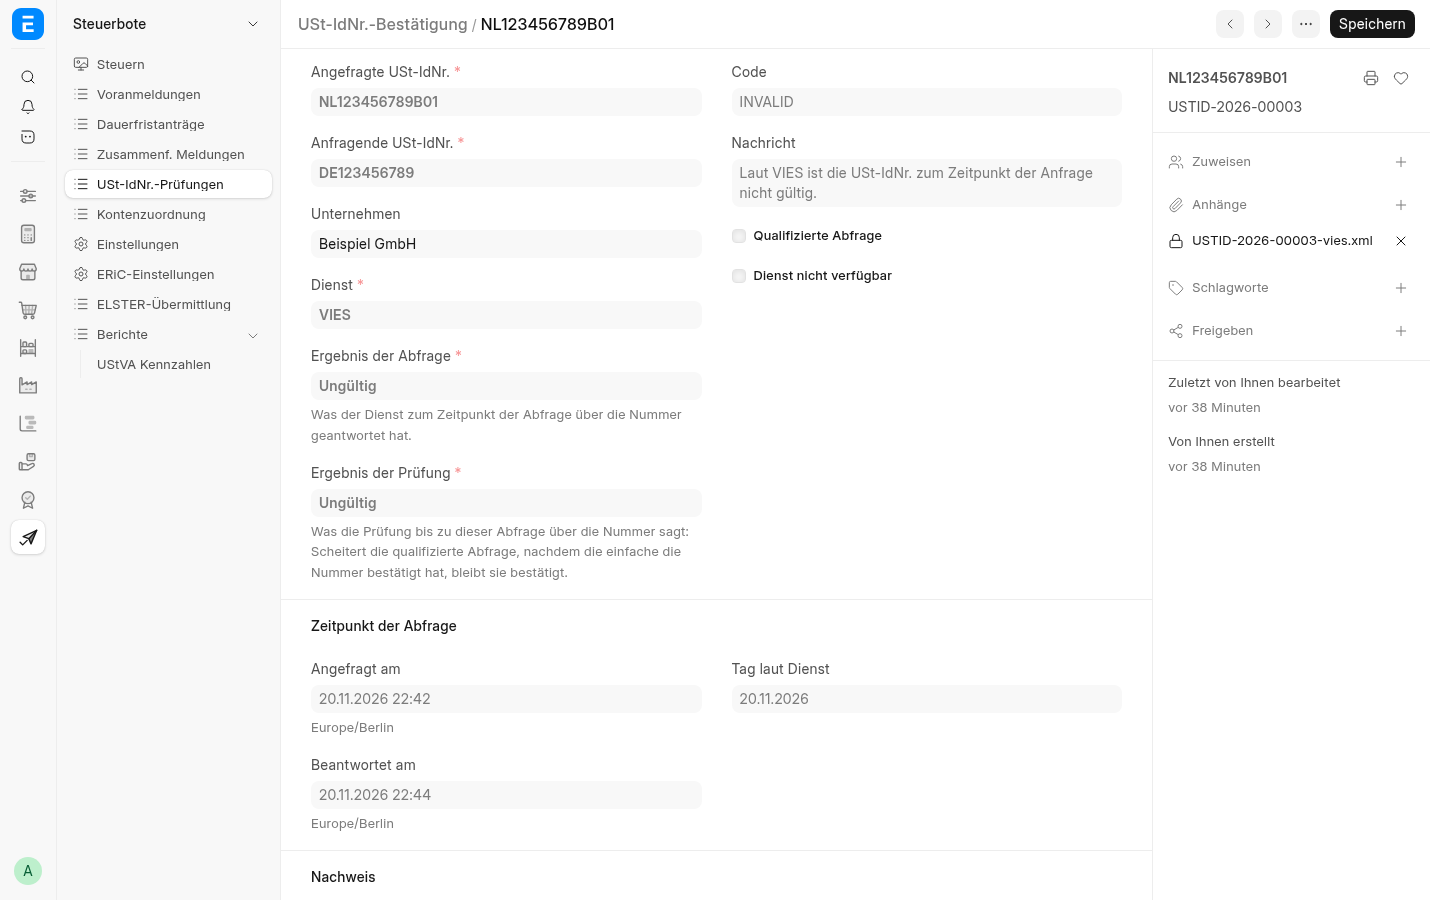
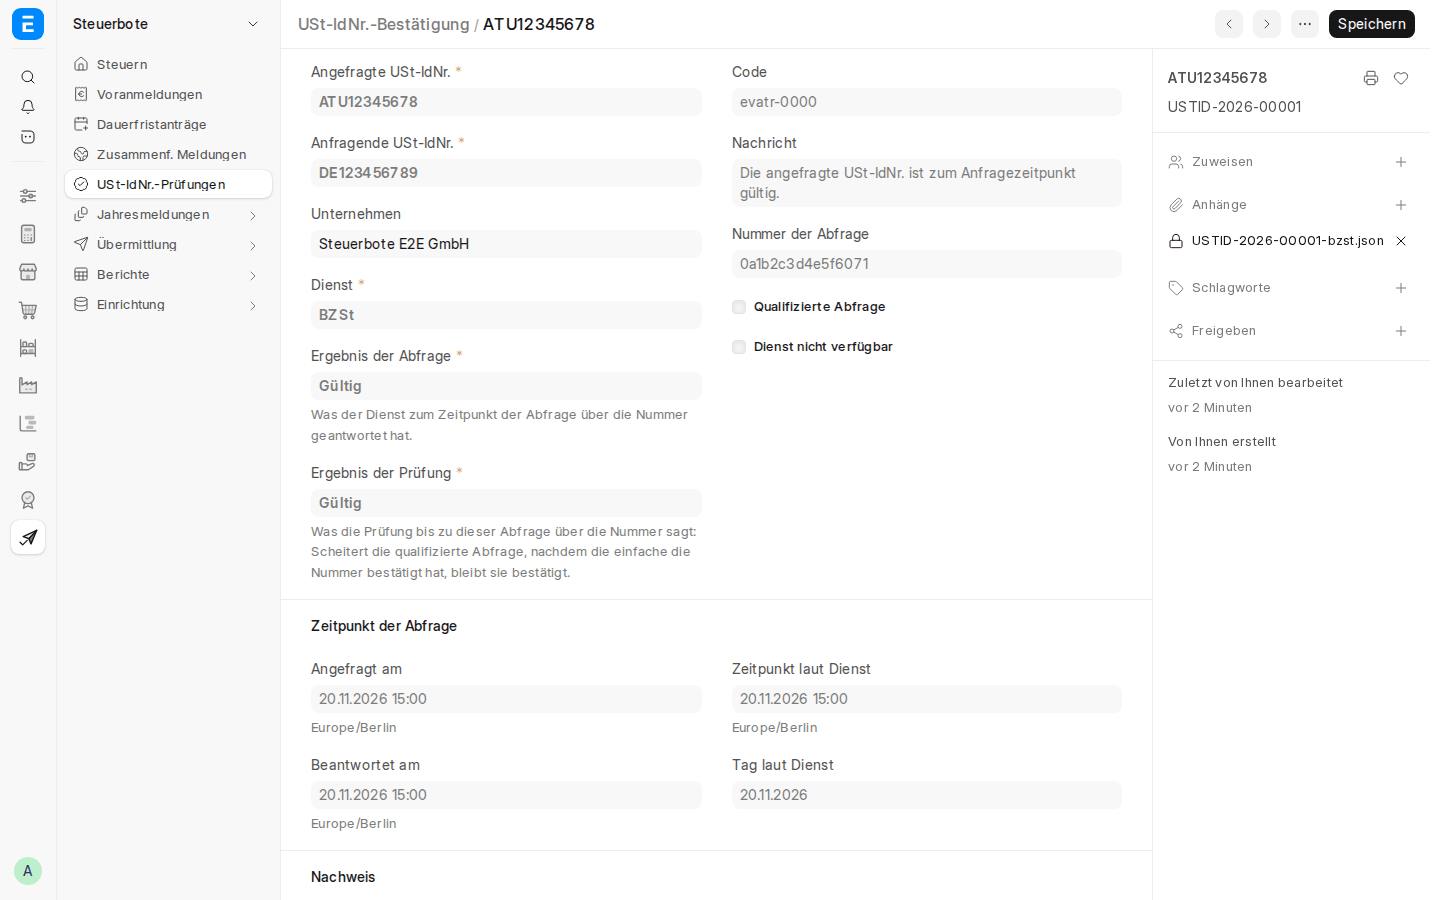
show the pictures of the browser tests in the README: the workspace, Steuerbote einrichten, the Voranmeldung with its Kennzahlen, the report UStVA Kennzahlen, the Zusammenfassende Meldung, the USt-IdNr.-Bestätigung, the Dauerfristverlängerung and the Offene Fristen anew, and the Umsatzsteuer-, Körpe

diff --git a/README.md b/README.md
@@ -30,37 +30,79 @@ Steuermeldungen aus ERPNext an ELSTER: Umsatzsteuer-Voranmeldung, Dauerfristverl
 
 ## Einblick
 
-Die Bilder zeigen Steuerbote in einer Testumgebung mit ERPNext 16, den Arbeitsbereich Steuern mit Version 0.8.0, die übrigen mit Version 0.2.0. Firma, Anschrift, Steuernummern, USt-IdNrn., Belegnummern und Geschäftspartner sind Beispielwerte. Ein Klick auf ein Bild öffnet es in voller Größe.
+Die Bilder stammen aus den Browsertests der CI und zeigen Steuerbote 0.11.0 mit ERPNext 16 und den Testdaten dieser Tests: Unternehmen, Anschriften, USt-IdNrn., Geschäftspartner, Belegnummern und Beträge sind erfundene Beispielwerte. Ein Klick auf ein Bild öffnet es in voller Größe.
 
 <table>
   <tr>
     <td align="center" valign="top">
       <a href="docs/bilder/workspace-steuern.png"><img src="docs/bilder/workspace-steuern.png" width="280" alt="ERPNext mit „Steuern“ in der Leiste links, der Seitenleiste Steuerbote und dem Arbeitsbereich Steuern mit den Abschnitten Fristen, Umsatzsteuer-Voranmeldung, Zusammenfassende Meldung, Jahresmeldungen und Einrichtung"></a><br>
-      Arbeitsbereich Steuern
+      Der Arbeitsbereich „Steuern“ führt zu den Fristen, den Belegen der Umsatzsteuer und der Jahresmeldungen und zur Einrichtung.
     </td>
     <td align="center" valign="top">
-      <a href="docs/bilder/voranmeldung.png"><img src="docs/bilder/voranmeldung.png" width="280" alt="Umsatzsteuer-Voranmeldung mit Hinweisen zu Rechnungen und Vorperiode und dem Vorperiodenvergleich der Kennzahlen"></a><br>
-      Voranmeldung mit Hinweisen und Vorperiodenvergleich
+      <a href="docs/bilder/steuerbote-einrichten.png"><img src="docs/bilder/steuerbote-einrichten.png" width="280" alt="Seite Steuerbote einrichten nach dem ersten Lauf für ein Unternehmen mit SKR03-Konten: Einstellungen, Kontenzuordnung Umsatzsteuer, Kontenzuordnung Ertragsteuern und Bilanzzuordnung angelegt, der Voranmeldungszeitraum offen, jeder Schritt mit seinen Hinweisen und offenen Punkten"></a><br>
+      „Steuerbote einrichten“ legt für ein Unternehmen Einstellungen, Kontenzuordnungen und Bilanzzuordnung mit den Vorgaben seines Kontenrahmens an und sagt je Schritt, was offen bleibt.
+    </td>
+  </tr>
+  <tr>
+    <th colspan="2">Umsatzsteuer</th>
+  </tr>
+  <tr>
+    <td align="center" valign="top">
+      <a href="docs/bilder/voranmeldung.png"><img src="docs/bilder/voranmeldung.png" width="280" alt="Umsatzsteuer-Voranmeldung Oktober 2026 nach Berechnen: die Kennzahlen 81, 46, 47, 21, 67 und 83 mit Betrag laut Vordruck, Korrektur und gemeldetem Betrag, darunter die Summen mit Umsatzsteuer, Vorsteuer und Kz 83, bereit zur Abgabe"></a><br>
+      Die Umsatzsteuer-Voranmeldung nach „Berechnen“: die Kennzahlen aus dem Hauptbuch und die Summen bis Kz 83, bereit zur Abgabe.
+    </td>
+    <td align="center" valign="top">
+      <a href="docs/bilder/bericht-kennzahlen.png"><img src="docs/bilder/bericht-kennzahlen.png" width="280" alt="Bericht UStVA Kennzahlen für Oktober 2026, ganz aufgeklappt: unter jeder Kennzahl die Rechnung mit Buchungsdatum, Belegtyp, Belegnummer und Link zum Druck"></a><br>
+      Der Bericht „UStVA Kennzahlen“ zeigt unter jeder Kennzahl die Belege, aus denen sie entsteht, mit Link zum Druck.
     </td>
   </tr>
   <tr>
     <td align="center" valign="top">
-      <a href="docs/bilder/bericht-kennzahlen.png"><img src="docs/bilder/bericht-kennzahlen.png" width="280" alt="Bericht UStVA Kennzahlen mit den Belegen hinter jeder Kennzahl, eine stornierte Eingangsrechnung darunter"></a><br>
-      Bericht mit den Belegen je Kennzahl
+      <a href="docs/bilder/zusammenfassende-meldung.png"><img src="docs/bilder/zusammenfassende-meldung.png" width="280" alt="Zusammenfassende Meldung Oktober 2026 mit einer Meldezeile für eine österreichische USt-IdNr., Art S, 2.000 €, laut Bestätigung gültig, darunter die Summen, ein Hinweis unter den Befunden und der Abgleich mit der Voranmeldung"></a><br>
+      Die Zusammenfassende Meldung mit einer Meldezeile je USt-IdNr. und Art, den Summen, den Befunden und dem Abgleich mit der Voranmeldung.
     </td>
     <td align="center" valign="top">
-      <a href="docs/bilder/zusammenfassende-meldung.png"><img src="docs/bilder/zusammenfassende-meldung.png" width="280" alt="Zusammenfassende Meldung mit Meldezeile, Summen und Befunden; die USt-IdNr. der Zeile ist laut Bestätigungsabfrage ungültig und hält die Meldung an"></a><br>
-      Zusammenfassende Meldung mit Befunden
+      <a href="docs/bilder/ust-idnr-bestaetigung.png"><img src="docs/bilder/ust-idnr-bestaetigung.png" width="280" alt="USt-IdNr.-Bestätigung des BZSt für eine österreichische USt-IdNr.: angefragte und anfragende USt-IdNr., Dienst, Ergebnis gültig, Nachricht und Zeitpunkt der Abfrage, die Antwort als Datei angehängt"></a><br>
+      Jede Abfrage einer USt-IdNr. beim BZSt bleibt als Nachweis gespeichert, mit Ergebnis, Nachricht, Zeitpunkt und der Antwort als Datei.
     </td>
   </tr>
   <tr>
     <td align="center" valign="top">
-      <a href="docs/bilder/ust-idnr-bestaetigung.png"><img src="docs/bilder/ust-idnr-bestaetigung.png" width="280" alt="USt-IdNr.-Bestätigung mit angefragter und anfragender USt-IdNr., Dienst, Ergebnis und Zeitpunkt der Abfrage"></a><br>
-      USt-IdNr.-Bestätigung als Nachweis
+      <a href="docs/bilder/dauerfristverlaengerung.png"><img src="docs/bilder/dauerfristverlaengerung.png" width="280" alt="Dauerfristverlängerung 2026 als Entwurf mit den Hinweisen zur Simulation und zum Eintragen in Mein ELSTER: Unternehmen, Jahr, Art des Vordrucks Anmeldung der Sondervorauszahlung, Abgaberhythmus monatlich, Fälligkeit und Anrechnung in Kz 39 der Voranmeldung Dezember 2026"></a><br>
+      Die Dauerfristverlängerung hält den Vordruck USt 1 H eines Jahres: Antrag oder Anmeldung der Sondervorauszahlung, Fälligkeit und die Voranmeldung, die sie anrechnet.
     </td>
     <td align="center" valign="top">
-      <a href="docs/bilder/dauerfristverlaengerung.png"><img src="docs/bilder/dauerfristverlaengerung.png" width="280" alt="Dauerfristverlängerung für 2027; Berechnen meldet, dass keine Voranmeldung des Vorjahres abgegeben ist und die Grundlage von Hand einzutragen ist"></a><br>
-      Dauerfristverlängerung
+      <a href="docs/bilder/offene-fristen.png"><img src="docs/bilder/offene-fristen.png" width="280" alt="Bericht Offene Fristen eines Unternehmens: Sondervorauszahlung, Zusammenfassende Meldung und Voranmeldungen mit Zeitraum, Fälligkeit, Tagen bis dahin, Status und Beleg"></a><br>
+      Der Bericht „Offene Fristen“ nennt jede Frist mit Fälligkeit, den Tagen bis dahin, ihrem Status und dem Beleg.
+    </td>
+  </tr>
+  <tr>
+    <th colspan="2">Jahresmeldungen</th>
+  </tr>
+  <tr>
+    <td align="center" valign="top">
+      <a href="docs/bilder/umsatzsteuererklaerung.png"><img src="docs/bilder/umsatzsteuererklaerung.png" width="280" alt="Umsatzsteuererklärung 2026 nach Berechnen: die Zeilen des Vordrucks USt 2 A mit Feldkennung, Kennzahl und Betrag, darunter Vorauszahlungssoll und Abschlusszahlung mit Kz 83 und Kz 39 der Voranmeldungen und der Sondervorauszahlung laut Einstellungen"></a><br>
+      Die Umsatzsteuererklärung füllt den Vordruck USt 2 A aus dem Hauptbuch des Jahres und stellt das Vorauszahlungssoll aus den Voranmeldungen gegenüber.
+    </td>
+    <td align="center" valign="top">
+      <a href="docs/bilder/koerperschaftsteuererklaerung.png"><img src="docs/bilder/koerperschaftsteuererklaerung.png" width="280" alt="Körperschaftsteuererklärung 2026, Berechnung: vom Jahresüberschuss über Einkünfte und Gesamtbetrag der Einkünfte zum zu versteuernden Einkommen, Körperschaftsteuer und Solidaritätszuschlag, Vorauszahlungen und Abschlusszahlung"></a><br>
+      Die Körperschaftsteuererklärung rechnet vom Jahresüberschuss bis zum zu versteuernden Einkommen, zur Körperschaftsteuer mit Solidaritätszuschlag und zur Abschlusszahlung.
+    </td>
+  </tr>
+  <tr>
+    <td align="center" valign="top">
+      <a href="docs/bilder/gewerbesteuererklaerung.png"><img src="docs/bilder/gewerbesteuererklaerung.png" width="280" alt="Gewerbesteuererklärung 2026, Berechnung: Gewinn aus Gewerbebetrieb, Hinzurechnung, Gewerbeertrag, Steuermessbetrag, Hebesatz 400 %, Gewerbesteuer, Vorauszahlungen und Abschlusszahlung, darunter die Zeilen des Vordrucks GewSt 1 A und die Gemeinde"></a><br>
+      Die Gewerbesteuererklärung baut auf der Körperschaftsteuererklärung desselben Jahres auf: Gewerbeertrag, Messbetrag, Hebesatz der Gemeinde und Abschlusszahlung.
+    </td>
+    <td align="center" valign="top">
+      <a href="docs/bilder/ebilanz.png"><img src="docs/bilder/ebilanz.png" width="280" alt="E-Bilanz 2026 mit ihren Positionen der HGB-Taxonomie, etwa Bilanzsumme, Anlagevermögen, Umlaufvermögen und Eigenkapital, je mit berechnetem, korrigiertem und gemeldetem Betrag"></a><br>
+      Die E-Bilanz meldet die Positionen der HGB-Taxonomie, berechnet aus Hauptbuch, Anlagen und Bilanzzuordnung.
+    </td>
+  </tr>
+  <tr>
+    <td align="center" valign="top" colspan="2">
+      <a href="docs/bilder/jahresabschluss.png"><img src="docs/bilder/jahresabschluss.png" width="280" alt="Jahresabschluss 2026 einer Kleinstkapitalgesellschaft: die Posten der Bilanz, Aktiva und Passiva, mit Betrag und Vorjahr"></a><br>
+      Der Jahresabschluss einer GmbH oder UG entsteht über die Bilanzzuordnung aus dem Hauptbuch, hier die Bilanz einer Kleinstkapitalgesellschaft mit dem Vorjahr.
     </td>
   </tr>
 </table>
